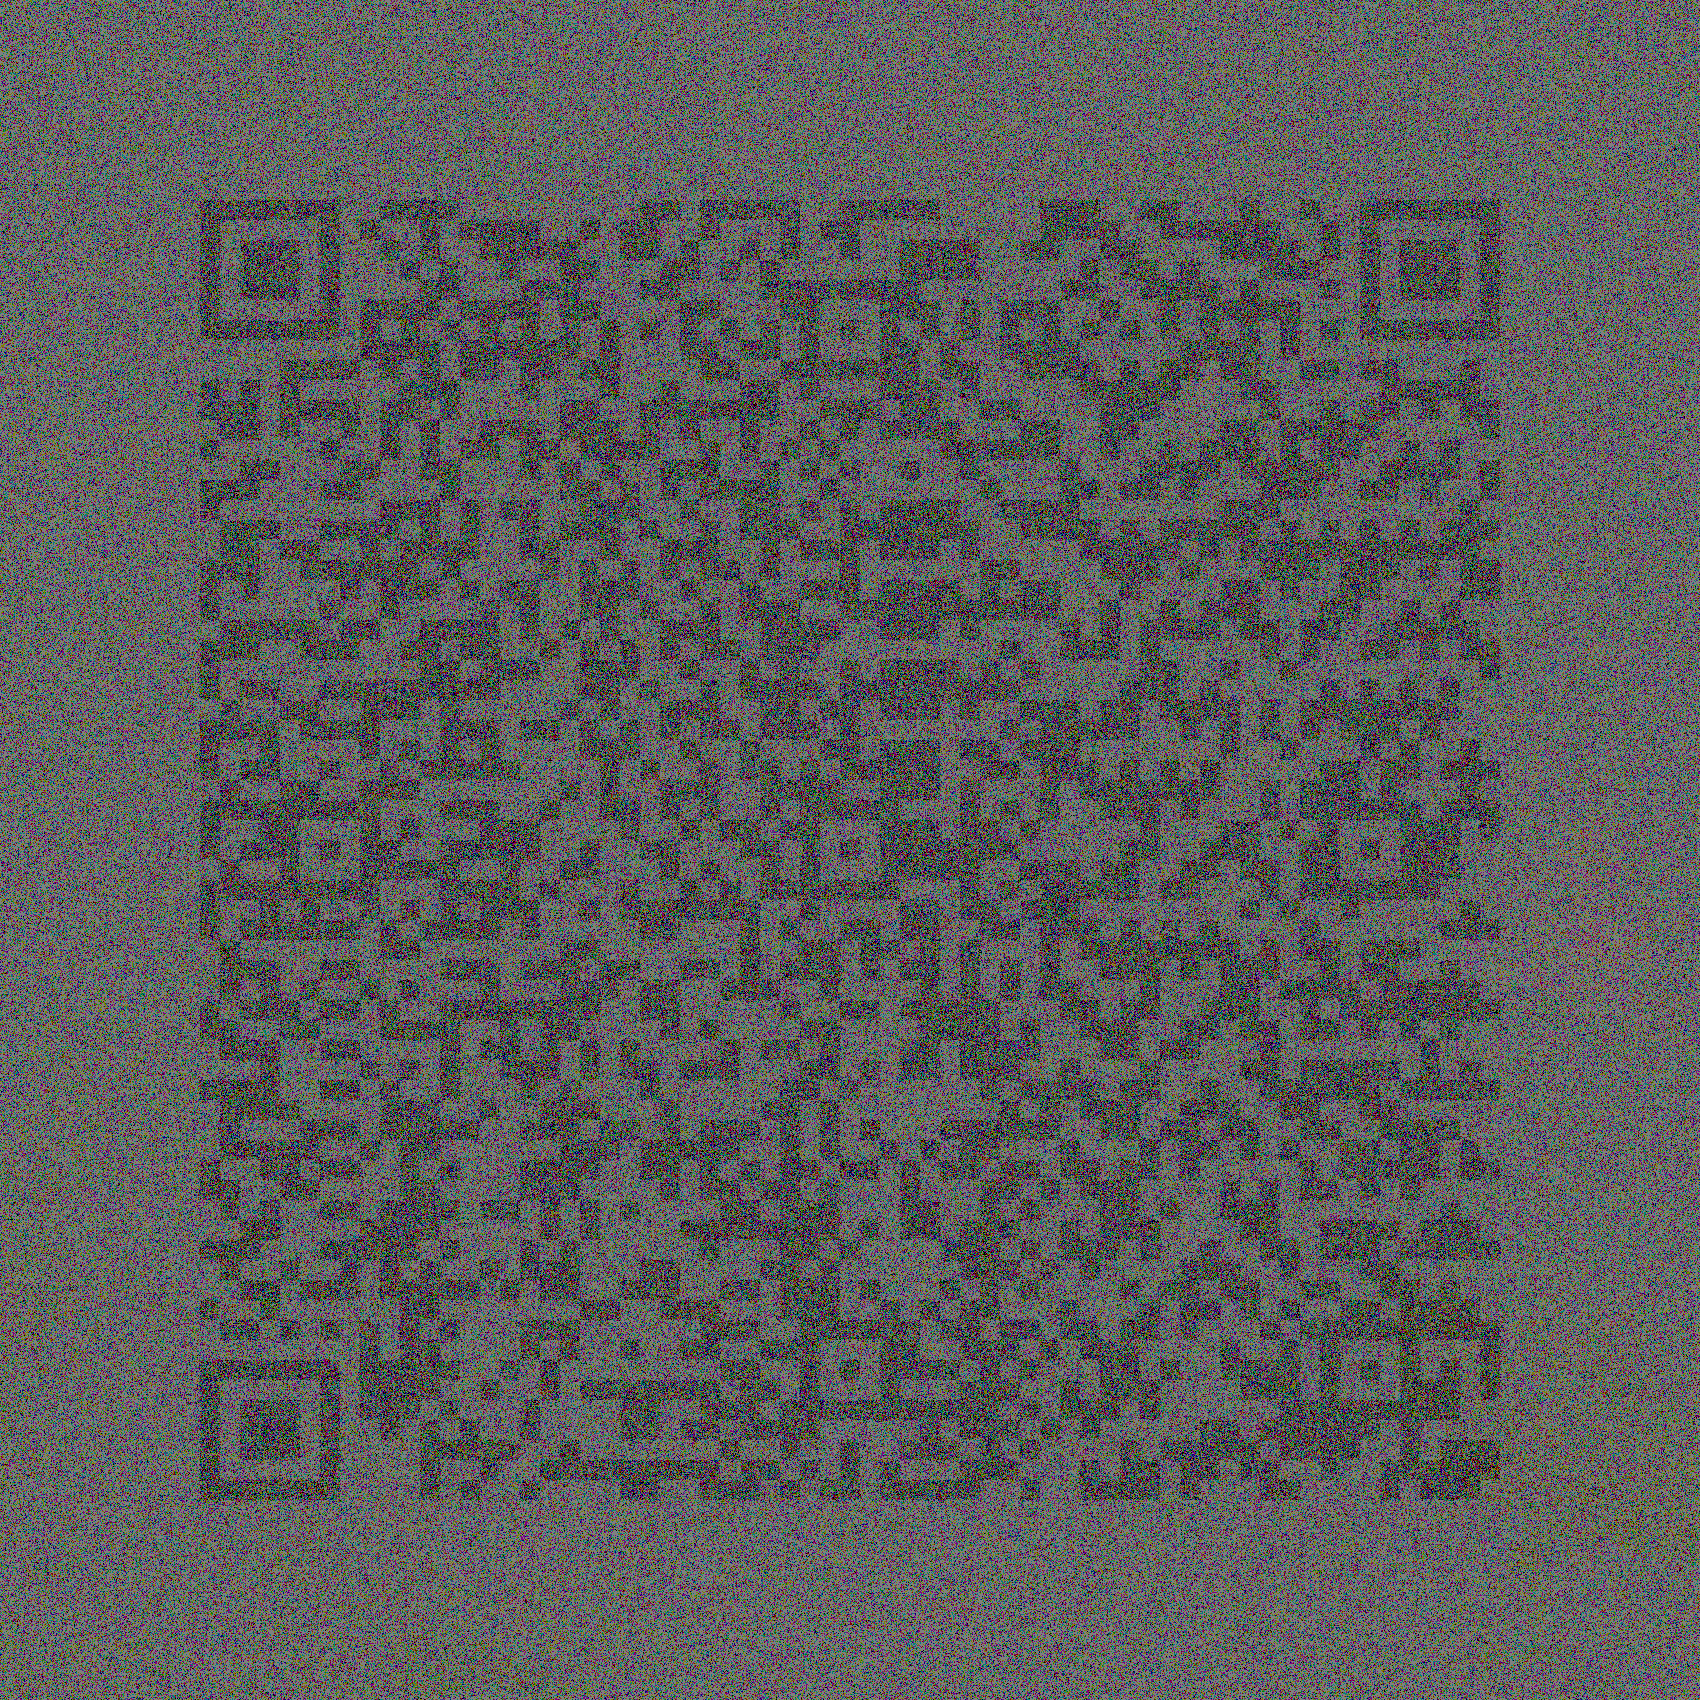
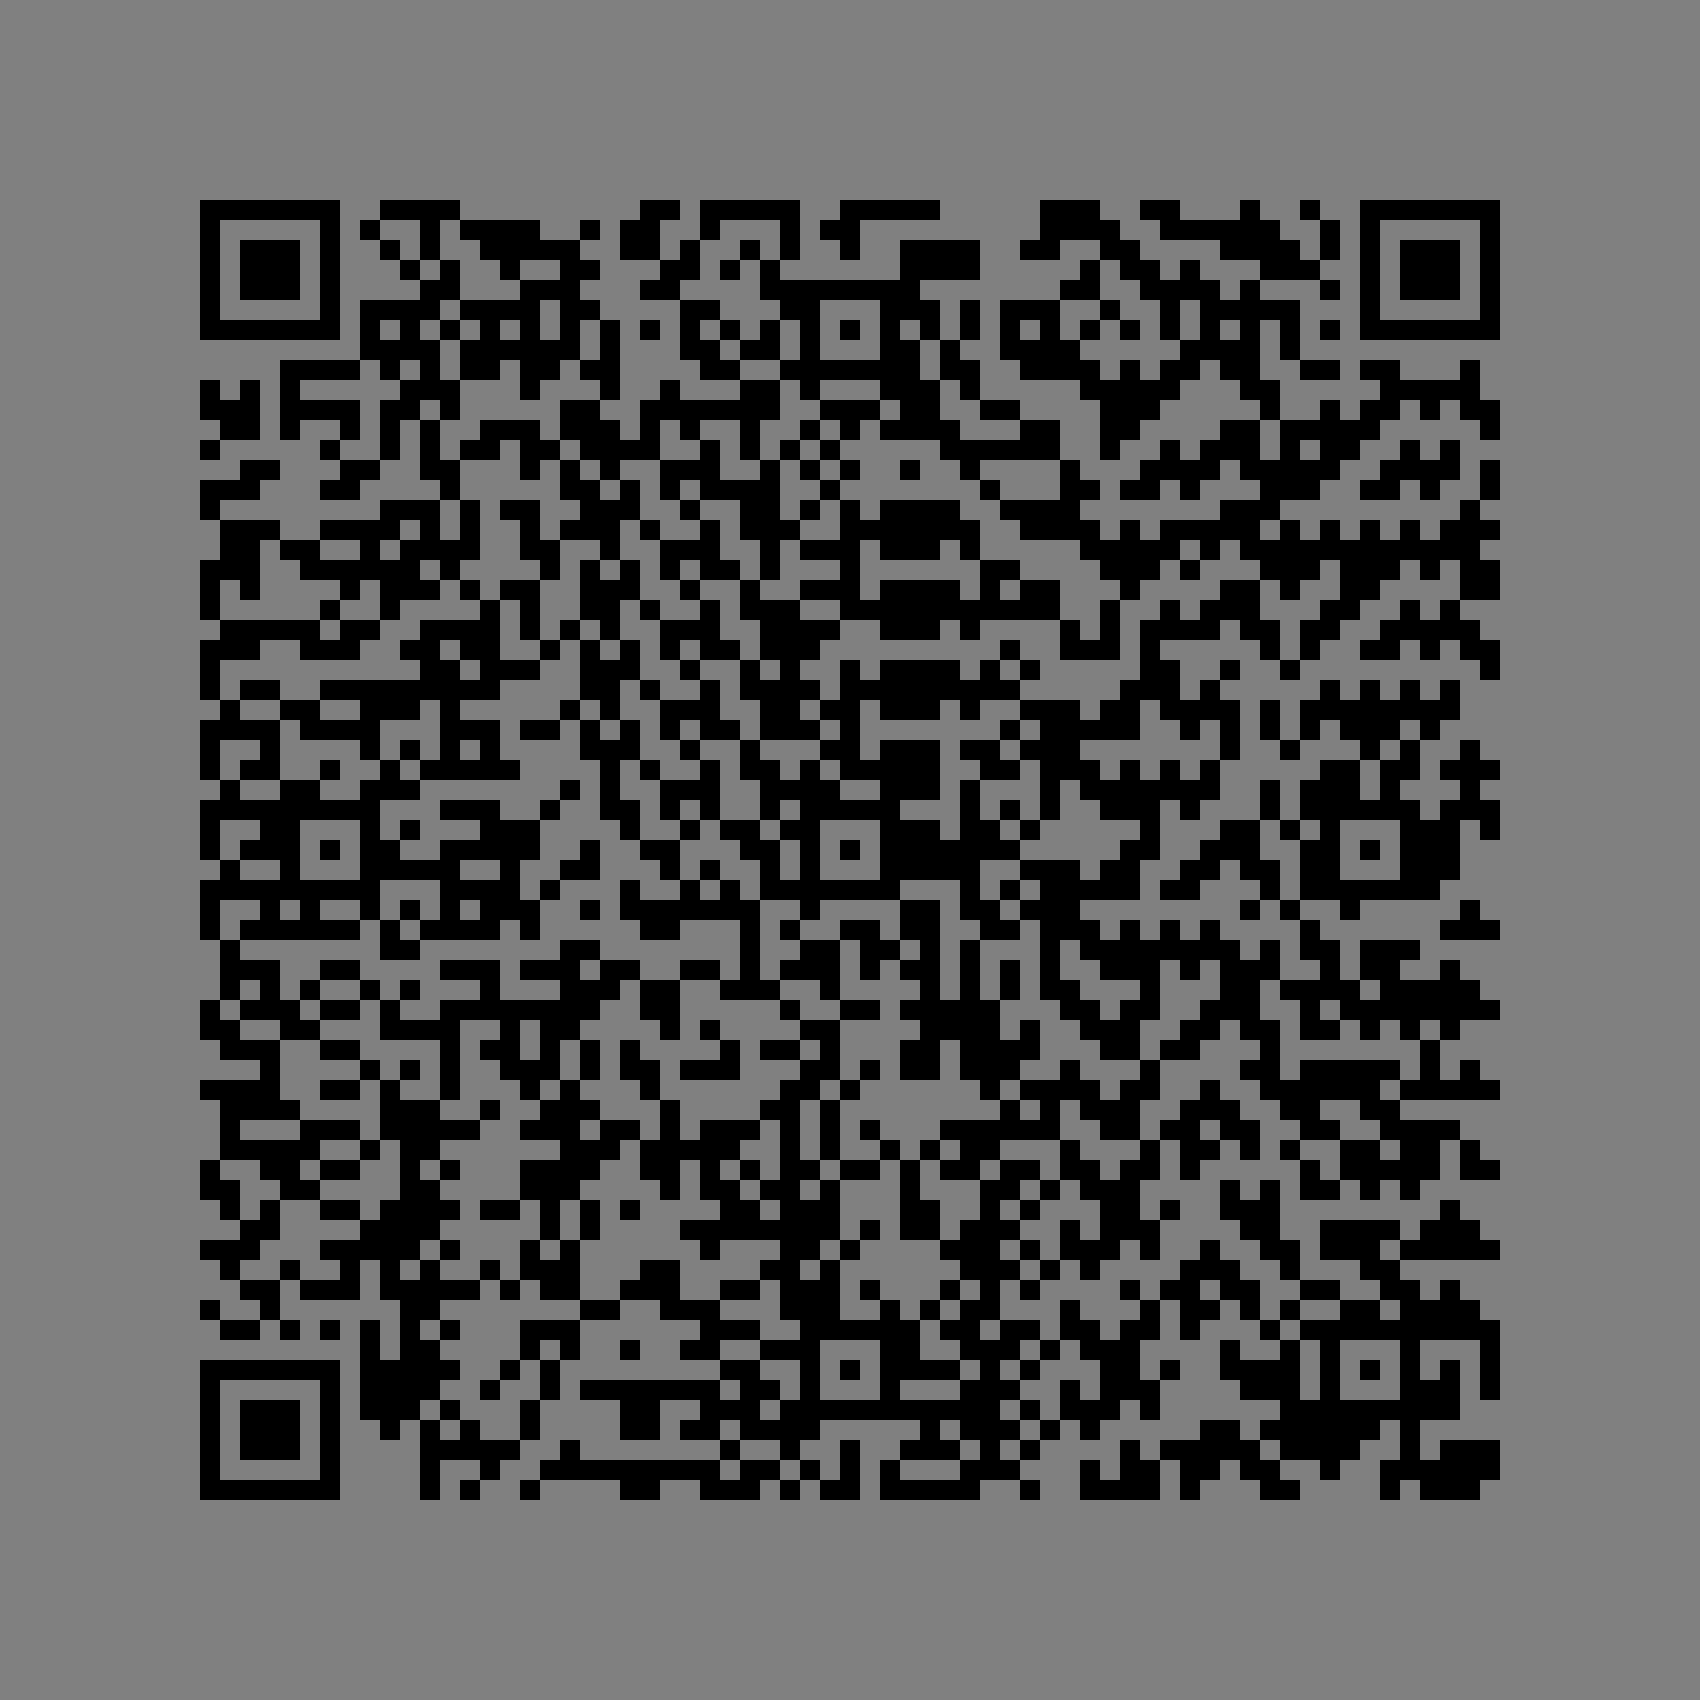
Fix FileNotFoundError and clean up commented code in LSBSteganography

diff --git a/test_file/lsb.py b/test_file/lsb.py
@@ -50,17 +50,17 @@ class LSBSteganography:
         import cv2
 
         # noise
-        np_cover_image = np.array(cover_image) # 将 PIL Image 对象转换为 numpy 数组
-        shape = np_cover_image.shape
-        gaussian_noise = np.random.normal(0, 3, shape).astype(np.uint8)
-        noisy_image = cv2.add(np_cover_image, gaussian_noise) # 使用 numpy 数组
+        # np_cover_image = np.array(cover_image) # 将 PIL Image 对象转换为 numpy 数组
+        # shape = np_cover_image.shape
+        # gaussian_noise = np.random.normal(0, 3, shape).astype(np.uint8)
+        # noisy_image = cv2.add(np_cover_image, gaussian_noise) # 使用 numpy 数组
+
+        # # 保存隐藏了秘密图像的载体图像
+        # Image.fromarray(noisy_image).save(stego_path) # 将 numpy 数组转换为 PIL Image 对象并保存
+
 
         # 保存隐藏了秘密图像的载体图像
-        Image.fromarray(noisy_image).save(stego_path) # 将 numpy 数组转换为 PIL Image 对象并保存
-
-
-        # 保存隐藏了秘密图像的载体图像
-        # cover_image.save(stego_path)
+        cover_image.save(stego_path)
 
     def decode(self, stego_path, extracted_path, secret_width, secret_height):
         """
